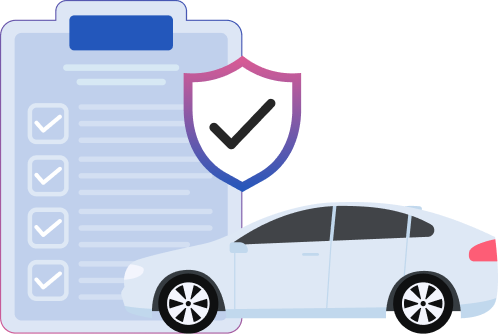
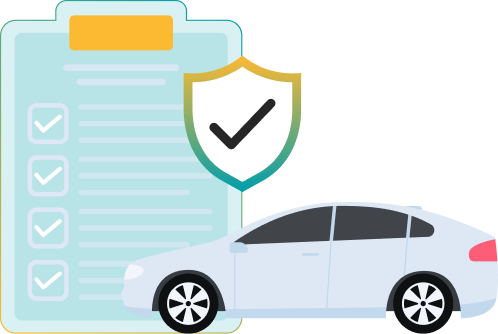
chore(faq): update style

diff --git a/pages/faq.vue b/pages/faq.vue
@@ -52,7 +52,7 @@ const cards = [
     </div>
     <div class="mx-auto flex flex-col gap-y-12 px-6 container lg:mt-42 lg:flex-row">
       <div class="relative h-full w-full lg:h-full">
-        <div class="absolute aspect-1 h-full w-1/2 translate-x-full rounded-full bg-[#1C57BC]/26 blur-200" />
+        <div class="absolute aspect-1 h-full w-1/2 translate-x-full rounded-full bg-[#009EAB]/26 blur-200" />
         <img src="/faq-side.png" alt="">
       </div>
       <div class="max-w-70ch pl-0 lg:pl-8">
@@ -66,7 +66,7 @@ const cards = [
         </p>
 
         <NuxtLink
-          class="mt-4 inline-block rounded-4 from-[#1C57BC] via-[#9D5CA2] to-[rgba(252,81,133,0.94)] from-0% to-98% via-47% bg-gradient-to-l px-10 py-2 font-extrabold text-white transition lg:mt-15 lg:px-18 lg:py-5 lg:text-xl hover:opacity-90 hover:ring-4 hover:ring-white/50"
+          class="mt-4 inline-block rounded-4 from-[#009EAB] via-[#017680] to-[#FCB932] from-0% to-98% via-47% bg-gradient-to-l px-10 py-2 font-extrabold text-white transition lg:mt-15 lg:px-18 lg:py-5 lg:text-xl hover:opacity-90 hover:ring-4 hover:ring-white/50"
           to="contact"
         >
           {{ $t('contact-us') }}
@@ -80,7 +80,8 @@ const cards = [
       v-for="card, idx in cards"
       v-slot="{ open }" :key="idx"
       as="div"
-      class="border-1px border-transparent rounded-xl bg-[#111237] shadow-md [&[data-headlessui-state=open]]:border-[#D1528C]/15 hover:border-[#D1528C]/20 all:transition"
+      class="border-1px border-transparent rounded-xl bg-[#FEF5E6]
+      shadow-md [&[data-headlessui-state=open]]:border-[#FCB932]/15 hover:border-[#FCB932]/30 all:transition"
     >
       <DisclosureButton as="div" class="flex cursor-pointer items-center justify-between px-14 py-5 text-xs font-bold leading-normal lg:text-2xl">
         <span>{{ card.title }} </span>
